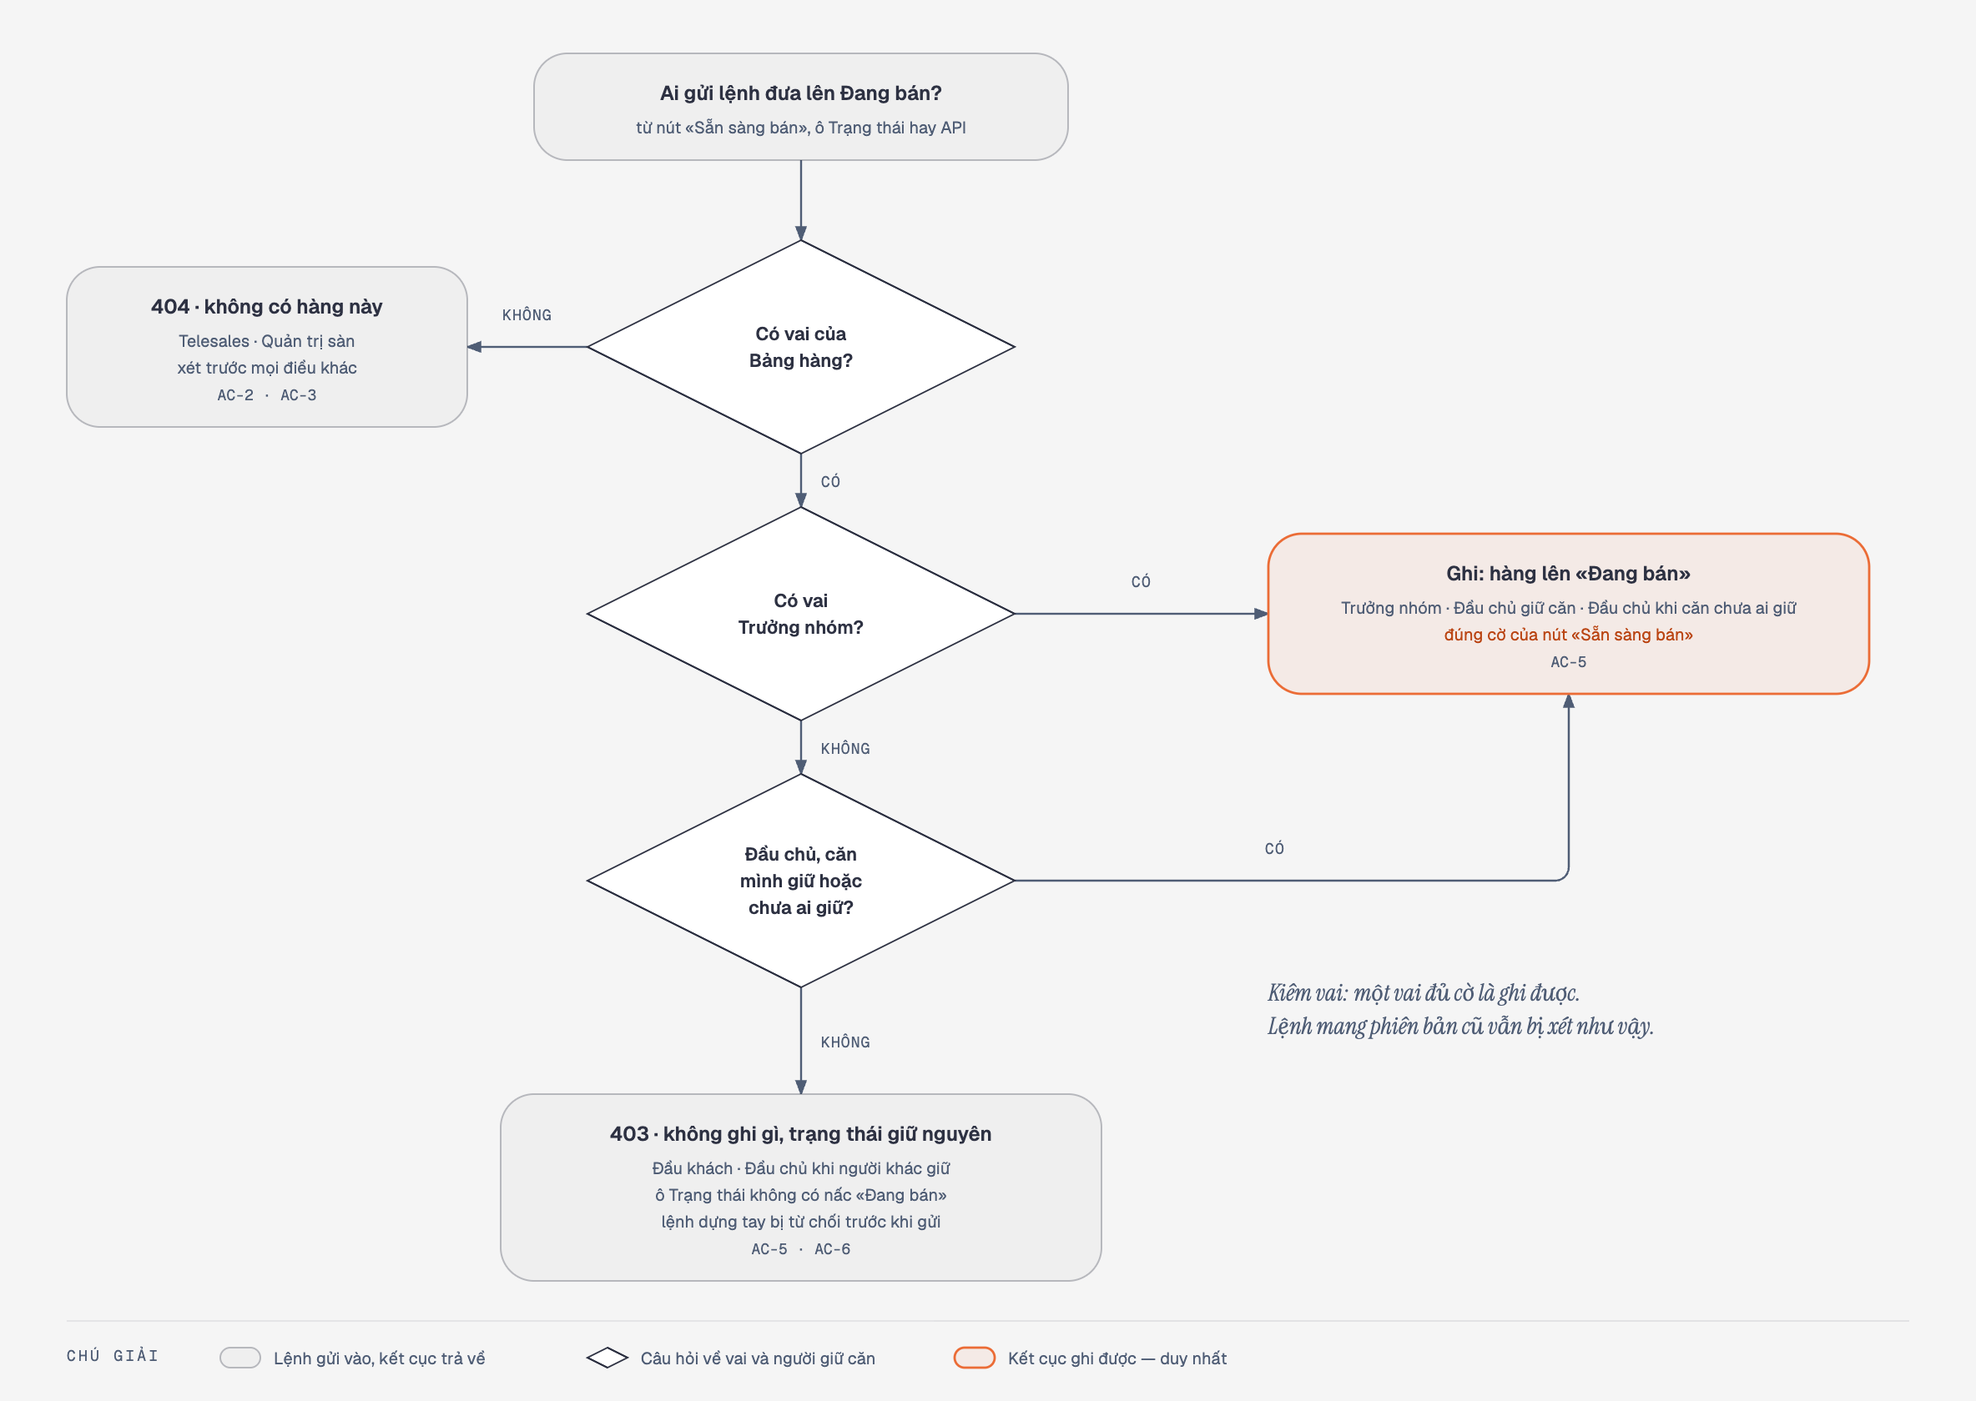
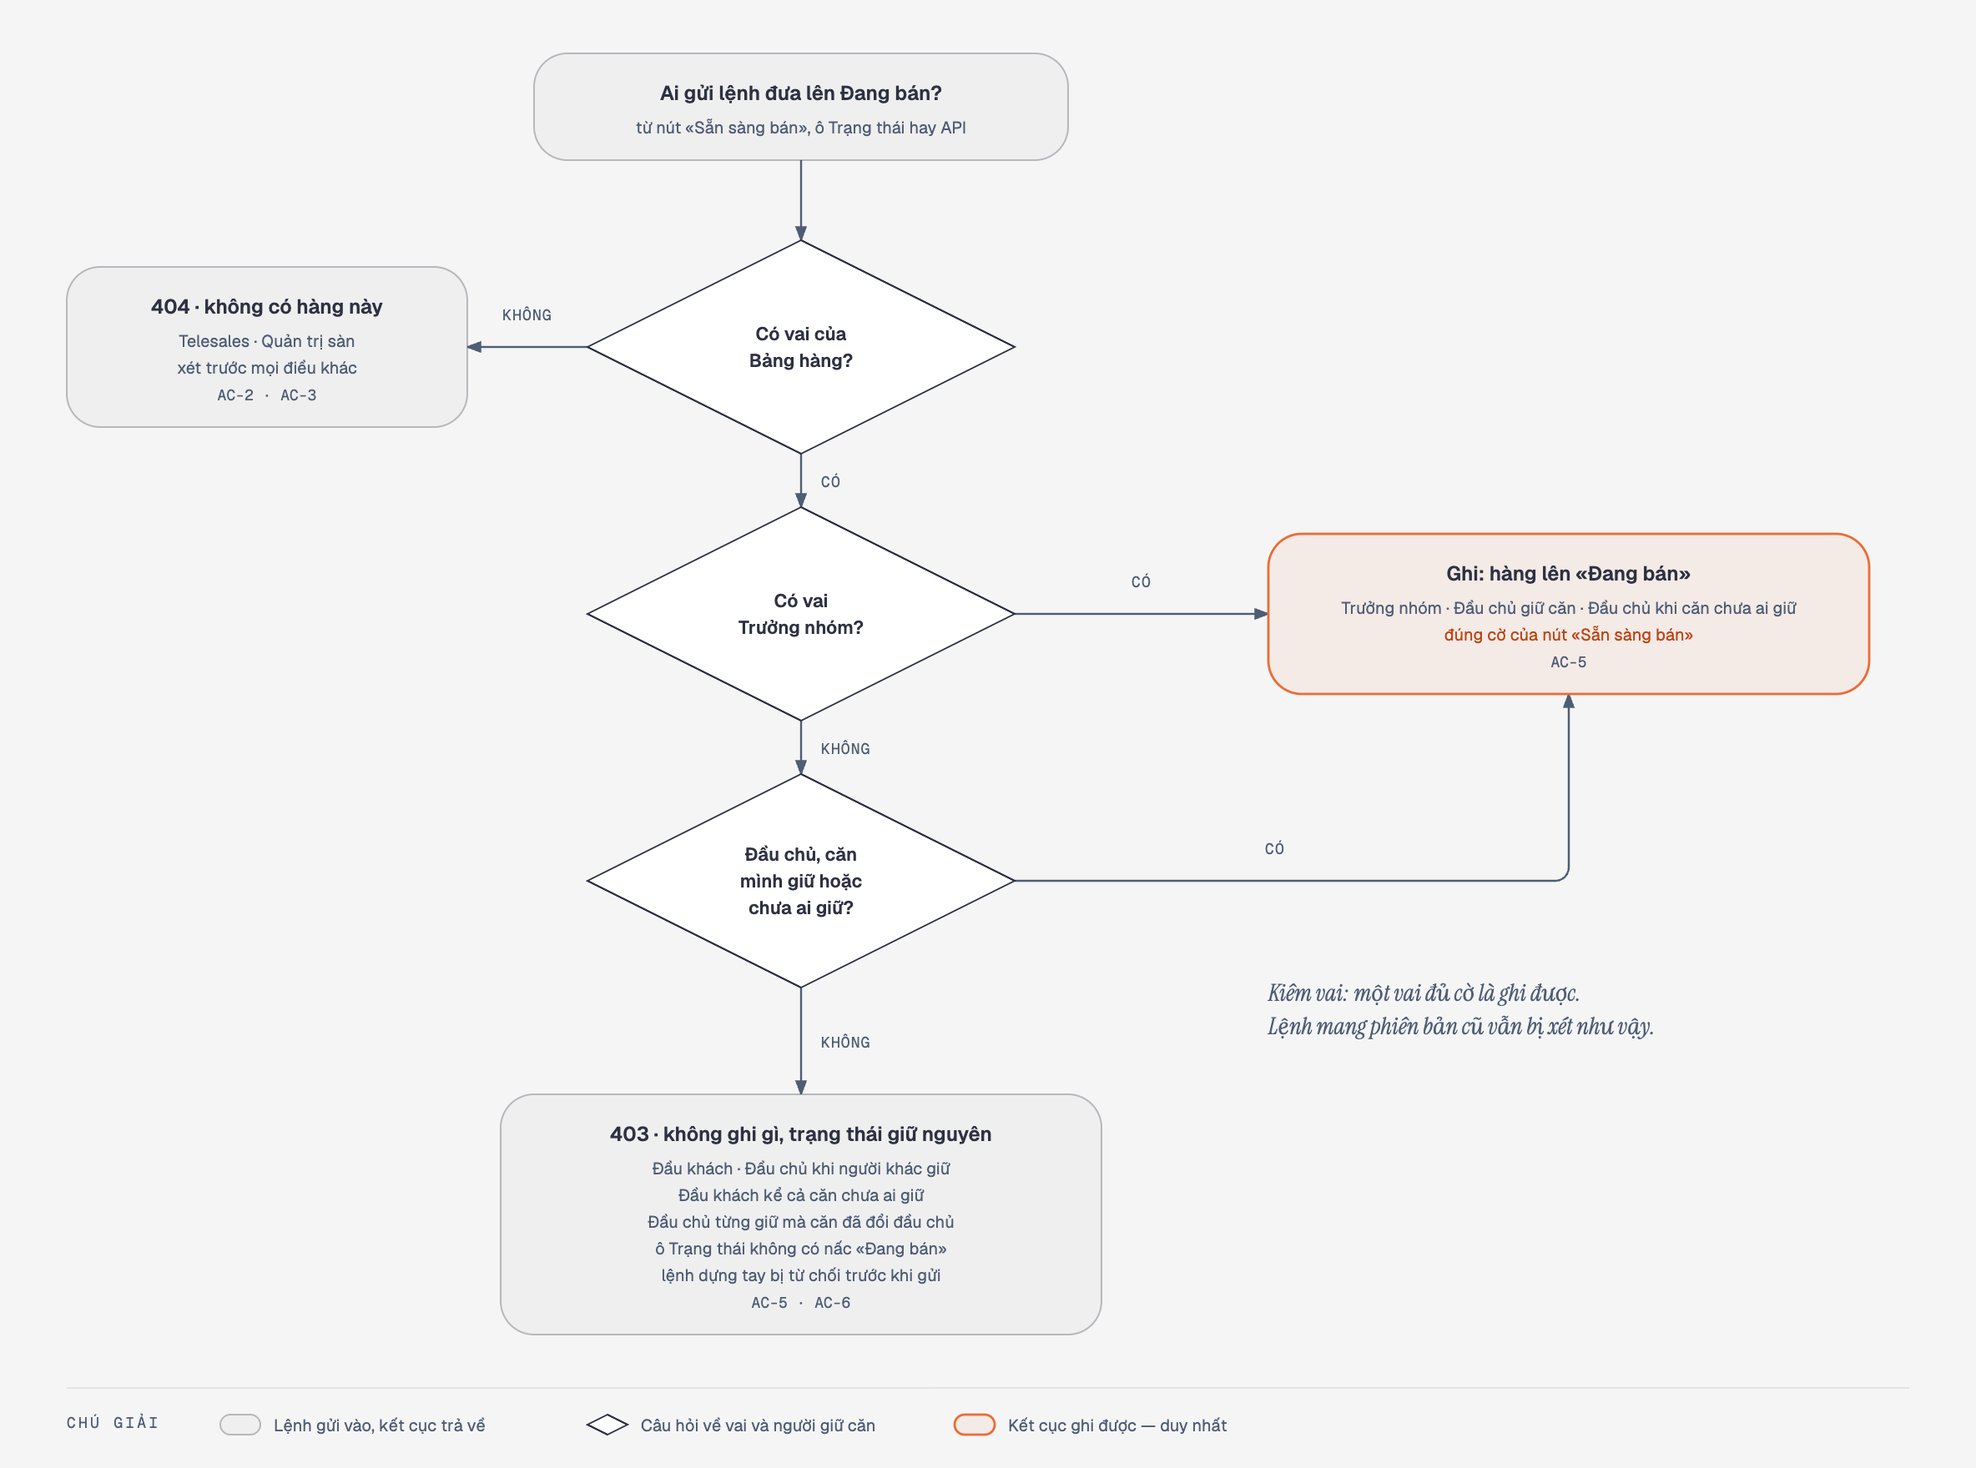
docs(bang-quyen-theo-vai): hình quyết định 14 ca, 56 ô

diff --git a/_acceptance/bang-quyen-theo-vai/figures/mot-bang-bon-lop.html b/_acceptance/bang-quyen-theo-vai/figures/mot-bang-bon-lop.html
@@ -53,7 +53,7 @@
     <p class="eyebrow">Luồng · Bảng quyền thao tác × vai</p>
     <h1>Một bảng quyền, bốn lớp cùng đọc — và một bộ kiểm đếm khớp từng ô</h1>
 
-    <svg viewBox="0 0 1184 560" xmlns="http://www.w3.org/2000/svg" role="img" aria-label="Bảng quyền thao tác theo vai có 48 ô nằm ở một chỗ; lõi, API, luật theo dòng của cơ sở dữ liệu và ô Trạng thái của Bảng hàng cùng đọc bảng ấy; bộ kiểm gọi thật 48 lần ở API và ở luật theo dòng rồi đối chiếu từng ô về bảng">
+    <svg viewBox="0 0 1184 560" xmlns="http://www.w3.org/2000/svg" role="img" aria-label="Bảng quyền thao tác theo vai có 56 ô nằm ở một chỗ; lõi, API, luật theo dòng của cơ sở dữ liệu, ô Trạng thái và cửa vào trang Bảng hàng cùng đọc bảng ấy; bộ kiểm gọi thật 56 lần ở API và ở luật theo dòng rồi đối chiếu từng ô về bảng">
       <defs>
         <marker id="arrow" markerWidth="8" markerHeight="6" refX="7" refY="3" orient="auto"><polygon points="0 0, 8 3, 0 6" fill="#4f5d75"/></marker>
         <marker id="arrow-accent" markerWidth="8" markerHeight="6" refX="7" refY="3" orient="auto"><polygon points="0 0, 8 3, 0 6" fill="#eb6c36"/></marker>
@@ -71,9 +71,9 @@
       <!-- Bảng → Ô Trạng thái (cạnh phải) -->
       <path d="M752 88 H992 A8 8 0 0 1 1000 96 V200" fill="none" stroke="#4f5d75" stroke-width="1.2" marker-end="url(#arrow)"/>
       <!-- API → Bộ kiểm -->
-      <line x1="456" y1="296" x2="456" y2="376" stroke="#4f5d75" stroke-width="1.2" marker-end="url(#arrow)"/>
+      <line x1="456" y1="312" x2="456" y2="376" stroke="#4f5d75" stroke-width="1.2" marker-end="url(#arrow)"/>
       <!-- Luật theo dòng → Bộ kiểm -->
-      <line x1="728" y1="296" x2="728" y2="376" stroke="#4f5d75" stroke-width="1.2" marker-end="url(#arrow)"/>
+      <line x1="728" y1="312" x2="728" y2="376" stroke="#4f5d75" stroke-width="1.2" marker-end="url(#arrow)"/>
       <!-- Bộ kiểm → đối chiếu về Bảng (đứt nét) -->
       <path d="M792 424 H1144 A8 8 0 0 0 1152 416 V32 A8 8 0 0 0 1144 24 H600 A8 8 0 0 0 592 32 V40" fill="none" stroke="#eb6c36" stroke-width="1.2" stroke-dasharray="5,4" marker-end="url(#arrow-accent)"/>
 
@@ -84,9 +84,9 @@
       <text x="900" y="76" fill="#4f5d75" font-size="9" font-family="'Geist Mono', monospace" text-anchor="middle" letter-spacing="0.06em">ĐỌC BẢNG</text>
 
       <rect x="464" y="328" width="80" height="16" rx="2" fill="#f5f5f5"/>
-      <text x="468" y="340" fill="#4f5d75" font-size="9" font-family="'Geist Mono', monospace" letter-spacing="0.06em">48 LẦN GỌI</text>
+      <text x="468" y="340" fill="#4f5d75" font-size="9" font-family="'Geist Mono', monospace" letter-spacing="0.06em">56 LẦN GỌI</text>
       <rect x="736" y="328" width="80" height="16" rx="2" fill="#f5f5f5"/>
-      <text x="740" y="340" fill="#4f5d75" font-size="9" font-family="'Geist Mono', monospace" letter-spacing="0.06em">48 LẦN GỌI</text>
+      <text x="740" y="340" fill="#4f5d75" font-size="9" font-family="'Geist Mono', monospace" letter-spacing="0.06em">56 LẦN GỌI</text>
 
       <rect x="1016" y="328" width="128" height="16" rx="2" fill="#f5f5f5"/>
       <text x="1140" y="340" fill="#ba4513" font-size="9" font-family="'Geist Mono', monospace" text-anchor="end" letter-spacing="0.06em">ĐỐI CHIẾU TỪNG Ô</text>
@@ -97,12 +97,12 @@
       <rect x="440" y="48" width="64" height="16" rx="2" fill="transparent" stroke="rgba(235,108,54,0.50)" stroke-width="0.8"/>
       <text x="472" y="60" fill="#ba4513" font-size="9" font-family="'Geist Mono', monospace" text-anchor="middle" letter-spacing="0.08em">MỘT CHỖ</text>
       <text x="592" y="84" fill="#2d3142" font-size="13" font-weight="600" font-family="'Geist', sans-serif" text-anchor="middle">Bảng quyền thao tác × vai</text>
-      <text x="592" y="104" fill="#4f5d75" font-size="10" font-family="'Geist', sans-serif" text-anchor="middle">12 ca người × 4 thao tác = 48 ô, viết trước</text>
+      <text x="592" y="104" fill="#4f5d75" font-size="10" font-family="'Geist', sans-serif" text-anchor="middle">14 ca người × 4 thao tác = 56 ô, viết trước</text>
       <text x="592" y="122" fill="#4f5d75" font-size="10" font-family="'Geist', sans-serif" text-anchor="middle">xem · tạo · sửa · đưa lên Đang bán</text>
 
       <!-- Lớp 1: Lõi -->
-      <rect x="64" y="200" width="240" height="96" rx="6" fill="#f5f5f5"/>
-      <rect x="64" y="200" width="240" height="96" rx="6" fill="#ffffff" stroke="#2d3142" stroke-width="1"/>
+      <rect x="64" y="200" width="240" height="112" rx="6" fill="#f5f5f5"/>
+      <rect x="64" y="200" width="240" height="112" rx="6" fill="#ffffff" stroke="#2d3142" stroke-width="1"/>
       <rect x="72" y="208" width="40" height="16" rx="2" fill="transparent" stroke="rgba(45,49,66,0.40)" stroke-width="0.8"/>
       <text x="92" y="220" fill="#4f5d75" font-size="9" font-family="'Geist Mono', monospace" text-anchor="middle" letter-spacing="0.08em">LÕI</text>
       <text x="296" y="220" fill="#4f5d75" font-size="9" font-family="'Geist Mono', monospace" text-anchor="end">AC-1</text>
@@ -111,8 +111,8 @@
       <text x="184" y="280" fill="#4f5d75" font-size="10" font-family="'Geist', sans-serif" text-anchor="middle">nút «Sẵn sàng bán» đọc cùng luật</text>
 
       <!-- Lớp 2: API -->
-      <rect x="336" y="200" width="240" height="96" rx="6" fill="#f5f5f5"/>
-      <rect x="336" y="200" width="240" height="96" rx="6" fill="#ffffff" stroke="#2d3142" stroke-width="1"/>
+      <rect x="336" y="200" width="240" height="112" rx="6" fill="#f5f5f5"/>
+      <rect x="336" y="200" width="240" height="112" rx="6" fill="#ffffff" stroke="#2d3142" stroke-width="1"/>
       <rect x="344" y="208" width="40" height="16" rx="2" fill="transparent" stroke="rgba(45,49,66,0.40)" stroke-width="0.8"/>
       <text x="364" y="220" fill="#4f5d75" font-size="9" font-family="'Geist Mono', monospace" text-anchor="middle" letter-spacing="0.08em">API</text>
       <text x="568" y="220" fill="#4f5d75" font-size="9" font-family="'Geist Mono', monospace" text-anchor="end">AC-2 … AC-5</text>
@@ -121,8 +121,8 @@
       <text x="456" y="280" fill="#4f5d75" font-size="10" font-family="'Geist', sans-serif" text-anchor="middle">không đủ cờ Đang bán → 403</text>
 
       <!-- Lớp 3: Luật theo dòng -->
-      <rect x="608" y="200" width="240" height="96" rx="6" fill="#f5f5f5"/>
-      <rect x="608" y="200" width="240" height="96" rx="6" fill="#ffffff" stroke="#2d3142" stroke-width="1"/>
+      <rect x="608" y="200" width="240" height="112" rx="6" fill="#f5f5f5"/>
+      <rect x="608" y="200" width="240" height="112" rx="6" fill="#ffffff" stroke="#2d3142" stroke-width="1"/>
       <rect x="616" y="208" width="96" height="16" rx="2" fill="transparent" stroke="rgba(45,49,66,0.40)" stroke-width="0.8"/>
       <text x="664" y="220" fill="#4f5d75" font-size="9" font-family="'Geist Mono', monospace" text-anchor="middle" letter-spacing="0.08em">CƠ SỞ DỮ LIỆU</text>
       <text x="840" y="220" fill="#4f5d75" font-size="9" font-family="'Geist Mono', monospace" text-anchor="end">AC-7</text>
@@ -131,14 +131,15 @@
       <text x="728" y="280" fill="#4f5d75" font-size="10" font-family="'Geist', sans-serif" text-anchor="middle">cách ly công ty giữ nguyên</text>
 
       <!-- Lớp 4: Ô Trạng thái -->
-      <rect x="880" y="200" width="240" height="96" rx="6" fill="#f5f5f5"/>
-      <rect x="880" y="200" width="240" height="96" rx="6" fill="#ffffff" stroke="#2d3142" stroke-width="1"/>
+      <rect x="880" y="200" width="240" height="112" rx="6" fill="#f5f5f5"/>
+      <rect x="880" y="200" width="240" height="112" rx="6" fill="#ffffff" stroke="#2d3142" stroke-width="1"/>
       <rect x="888" y="208" width="40" height="16" rx="2" fill="transparent" stroke="rgba(45,49,66,0.40)" stroke-width="0.8"/>
       <text x="908" y="220" fill="#4f5d75" font-size="9" font-family="'Geist Mono', monospace" text-anchor="middle" letter-spacing="0.08em">MÀN</text>
       <text x="1112" y="220" fill="#4f5d75" font-size="9" font-family="'Geist Mono', monospace" text-anchor="end">AC-6</text>
       <text x="1000" y="244" fill="#2d3142" font-size="12" font-weight="600" font-family="'Geist', sans-serif" text-anchor="middle">Ô Trạng thái của Bảng hàng</text>
       <text x="1000" y="264" fill="#4f5d75" font-size="10" font-family="'Geist', sans-serif" text-anchor="middle">không đủ cờ → không có nấc Đang bán</text>
       <text x="1000" y="280" fill="#4f5d75" font-size="10" font-family="'Geist', sans-serif" text-anchor="middle">lệnh dựng tay bị từ chối, không gửi</text>
+      <text x="1000" y="296" fill="#4f5d75" font-size="10" font-family="'Geist', sans-serif" text-anchor="middle">trang Bảng hàng: không có vai → về Hôm nay</text>
 
       <!-- Bộ kiểm -->
       <rect x="392" y="376" width="400" height="96" rx="6" fill="#f5f5f5"/>
@@ -146,8 +147,8 @@
       <rect x="400" y="384" width="64" height="16" rx="2" fill="transparent" stroke="rgba(79,93,117,0.50)" stroke-width="0.8"/>
       <text x="432" y="396" fill="#4f5d75" font-size="9" font-family="'Geist Mono', monospace" text-anchor="middle" letter-spacing="0.08em">BỘ KIỂM</text>
       <text x="784" y="396" fill="#4f5d75" font-size="9" font-family="'Geist Mono', monospace" text-anchor="end">AC-8</text>
-      <text x="592" y="420" fill="#2d3142" font-size="12" font-weight="600" font-family="'Geist', sans-serif" text-anchor="middle">Bộ kiểm đếm khớp 48 ô</text>
-      <text x="592" y="440" fill="#4f5d75" font-size="10" font-family="'Geist', sans-serif" text-anchor="middle">12 ca người thật × 4 thao tác, ở API và ở luật theo dòng</text>
+      <text x="592" y="420" fill="#2d3142" font-size="12" font-weight="600" font-family="'Geist', sans-serif" text-anchor="middle">Bộ kiểm đếm khớp 56 ô</text>
+      <text x="592" y="440" fill="#4f5d75" font-size="10" font-family="'Geist', sans-serif" text-anchor="middle">14 ca người thật × 4 thao tác, ở API và ở luật theo dòng</text>
       <text x="592" y="456" fill="#4f5d75" font-size="10" font-family="'Geist', sans-serif" text-anchor="middle">lệch một ô → nêu tên ca và thao tác</text>
 
       <!-- Ghi chú biên -->

diff --git a/_acceptance/bang-quyen-theo-vai/figures/dua-len-dang-ban.html b/_acceptance/bang-quyen-theo-vai/figures/dua-len-dang-ban.html
@@ -53,7 +53,7 @@
     <p class="eyebrow">Cây quyết định · Đưa hàng lên Đang bán</p>
     <h1>Ai đưa được hàng lên «Đang bán»: một cây, ở nút, ô Trạng thái và API như nhau</h1>
 
-    <svg viewBox="0 0 1184 840" xmlns="http://www.w3.org/2000/svg" role="img" aria-label="Lệnh đưa lên Đang bán: người không có vai Bảng hàng nhận 404 không có hàng này; Trưởng nhóm ghi được; Đầu chủ giữ căn hoặc căn chưa ai giữ ghi được; Đầu khách và Đầu chủ khi người khác giữ nhận 403, không ghi gì, ô Trạng thái không có nấc Đang bán">
+    <svg viewBox="0 0 1184 880" xmlns="http://www.w3.org/2000/svg" role="img" aria-label="Lệnh đưa lên Đang bán: người không có vai Bảng hàng nhận 404 không có hàng này; Trưởng nhóm ghi được; Đầu chủ giữ căn hoặc căn chưa ai giữ ghi được; Đầu khách kể cả khi căn chưa ai giữ, Đầu chủ khi người khác giữ kể cả người từng giữ mà căn đã đổi đầu chủ, nhận 403, không ghi gì, ô Trạng thái không có nấc Đang bán">
       <defs>
         <marker id="arrow" markerWidth="8" markerHeight="6" refX="7" refY="3" orient="auto"><polygon points="0 0, 8 3, 0 6" fill="#4f5d75"/></marker>
       </defs>
@@ -134,30 +134,32 @@
       <text x="940" y="400" fill="#4f5d75" font-size="9" font-family="'Geist Mono', monospace" text-anchor="middle">AC-5</text>
 
       <!-- Kết cục: 403 -->
-      <rect x="300" y="656" width="360" height="112" rx="20" fill="#f5f5f5"/>
-      <rect x="300" y="656" width="360" height="112" rx="20" fill="rgba(45,49,66,0.03)" stroke="rgba(45,49,66,0.30)" stroke-width="1"/>
+      <rect x="300" y="656" width="360" height="144" rx="20" fill="#f5f5f5"/>
+      <rect x="300" y="656" width="360" height="144" rx="20" fill="rgba(45,49,66,0.03)" stroke="rgba(45,49,66,0.30)" stroke-width="1"/>
       <text x="480" y="684" fill="#2d3142" font-size="12" font-weight="600" font-family="'Geist', sans-serif" text-anchor="middle">403 · không ghi gì, trạng thái giữ nguyên</text>
       <text x="480" y="704" fill="#4f5d75" font-size="10" font-family="'Geist', sans-serif" text-anchor="middle">Đầu khách · Đầu chủ khi người khác giữ</text>
-      <text x="480" y="720" fill="#4f5d75" font-size="10" font-family="'Geist', sans-serif" text-anchor="middle">ô Trạng thái không có nấc «Đang bán»</text>
-      <text x="480" y="736" fill="#4f5d75" font-size="10" font-family="'Geist', sans-serif" text-anchor="middle">lệnh dựng tay bị từ chối trước khi gửi</text>
-      <text x="480" y="752" fill="#4f5d75" font-size="9" font-family="'Geist Mono', monospace" text-anchor="middle">AC-5 · AC-6</text>
+      <text x="480" y="720" fill="#4f5d75" font-size="10" font-family="'Geist', sans-serif" text-anchor="middle">Đầu khách kể cả căn chưa ai giữ</text>
+      <text x="480" y="736" fill="#4f5d75" font-size="10" font-family="'Geist', sans-serif" text-anchor="middle">Đầu chủ từng giữ mà căn đã đổi đầu chủ</text>
+      <text x="480" y="752" fill="#4f5d75" font-size="10" font-family="'Geist', sans-serif" text-anchor="middle">ô Trạng thái không có nấc «Đang bán»</text>
+      <text x="480" y="768" fill="#4f5d75" font-size="10" font-family="'Geist', sans-serif" text-anchor="middle">lệnh dựng tay bị từ chối trước khi gửi</text>
+      <text x="480" y="784" fill="#4f5d75" font-size="9" font-family="'Geist Mono', monospace" text-anchor="middle">AC-5 · AC-6</text>
 
       <!-- Ghi chú biên -->
       <text x="760" y="600" fill="#4f5d75" font-size="14" font-style="italic" font-family="'Instrument Serif', 'Lora', serif">Kiêm vai: một vai đủ cờ là ghi được.</text>
       <text x="760" y="620" fill="#4f5d75" font-size="14" font-style="italic" font-family="'Instrument Serif', 'Lora', serif">Lệnh mang phiên bản cũ vẫn bị xét như vậy.</text>
 
       <!-- Chú giải -->
-      <line x1="40" y1="792" x2="1144" y2="792" stroke="rgba(45,49,66,0.12)" stroke-width="0.8"/>
-      <text x="40" y="816" fill="#4f5d75" font-size="9" font-family="'Geist Mono', monospace" letter-spacing="0.18em">CHÚ GIẢI</text>
+      <line x1="40" y1="832" x2="1144" y2="832" stroke="rgba(45,49,66,0.12)" stroke-width="0.8"/>
+      <text x="40" y="856" fill="#4f5d75" font-size="9" font-family="'Geist Mono', monospace" letter-spacing="0.18em">CHÚ GIẢI</text>
 
-      <rect x="132" y="808" width="24" height="12" rx="6" fill="rgba(45,49,66,0.03)" stroke="rgba(45,49,66,0.30)" stroke-width="1"/>
-      <text x="164" y="818" fill="#4f5d75" font-size="10" font-family="'Geist', sans-serif">Lệnh gửi vào, kết cục trả về</text>
+      <rect x="132" y="848" width="24" height="12" rx="6" fill="rgba(45,49,66,0.03)" stroke="rgba(45,49,66,0.30)" stroke-width="1"/>
+      <text x="164" y="858" fill="#4f5d75" font-size="10" font-family="'Geist', sans-serif">Lệnh gửi vào, kết cục trả về</text>
 
-      <polygon points="352,814 364,808 376,814 364,820" fill="#ffffff" stroke="#2d3142" stroke-width="1"/>
-      <text x="384" y="818" fill="#4f5d75" font-size="10" font-family="'Geist', sans-serif">Câu hỏi về vai và người giữ căn</text>
+      <polygon points="352,854 364,848 376,854 364,860" fill="#ffffff" stroke="#2d3142" stroke-width="1"/>
+      <text x="384" y="858" fill="#4f5d75" font-size="10" font-family="'Geist', sans-serif">Câu hỏi về vai và người giữ căn</text>
 
-      <rect x="572" y="808" width="24" height="12" rx="6" fill="rgba(235,108,54,0.08)" stroke="#eb6c36" stroke-width="1.4"/>
-      <text x="604" y="818" fill="#4f5d75" font-size="10" font-family="'Geist', sans-serif">Kết cục ghi được — duy nhất</text>
+      <rect x="572" y="848" width="24" height="12" rx="6" fill="rgba(235,108,54,0.08)" stroke="#eb6c36" stroke-width="1.4"/>
+      <text x="604" y="858" fill="#4f5d75" font-size="10" font-family="'Geist', sans-serif">Kết cục ghi được — duy nhất</text>
     </svg>
   </div>
 </body>
